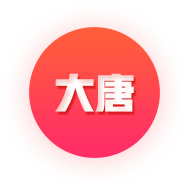
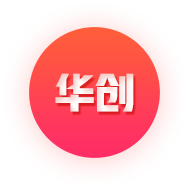
更换图标

Changed region(s): [[0.291, 0.3704, 0.7143, 0.6085]]

diff --git a/html/list_cg/list_cg.css b/html/list_cg/list_cg.css
@@ -284,7 +284,7 @@
     bottom: 0;
 }
 #swrapper.nocat {
-	top:106px;
+	top:152px;
 }
 .more {
     height: 4rem;
